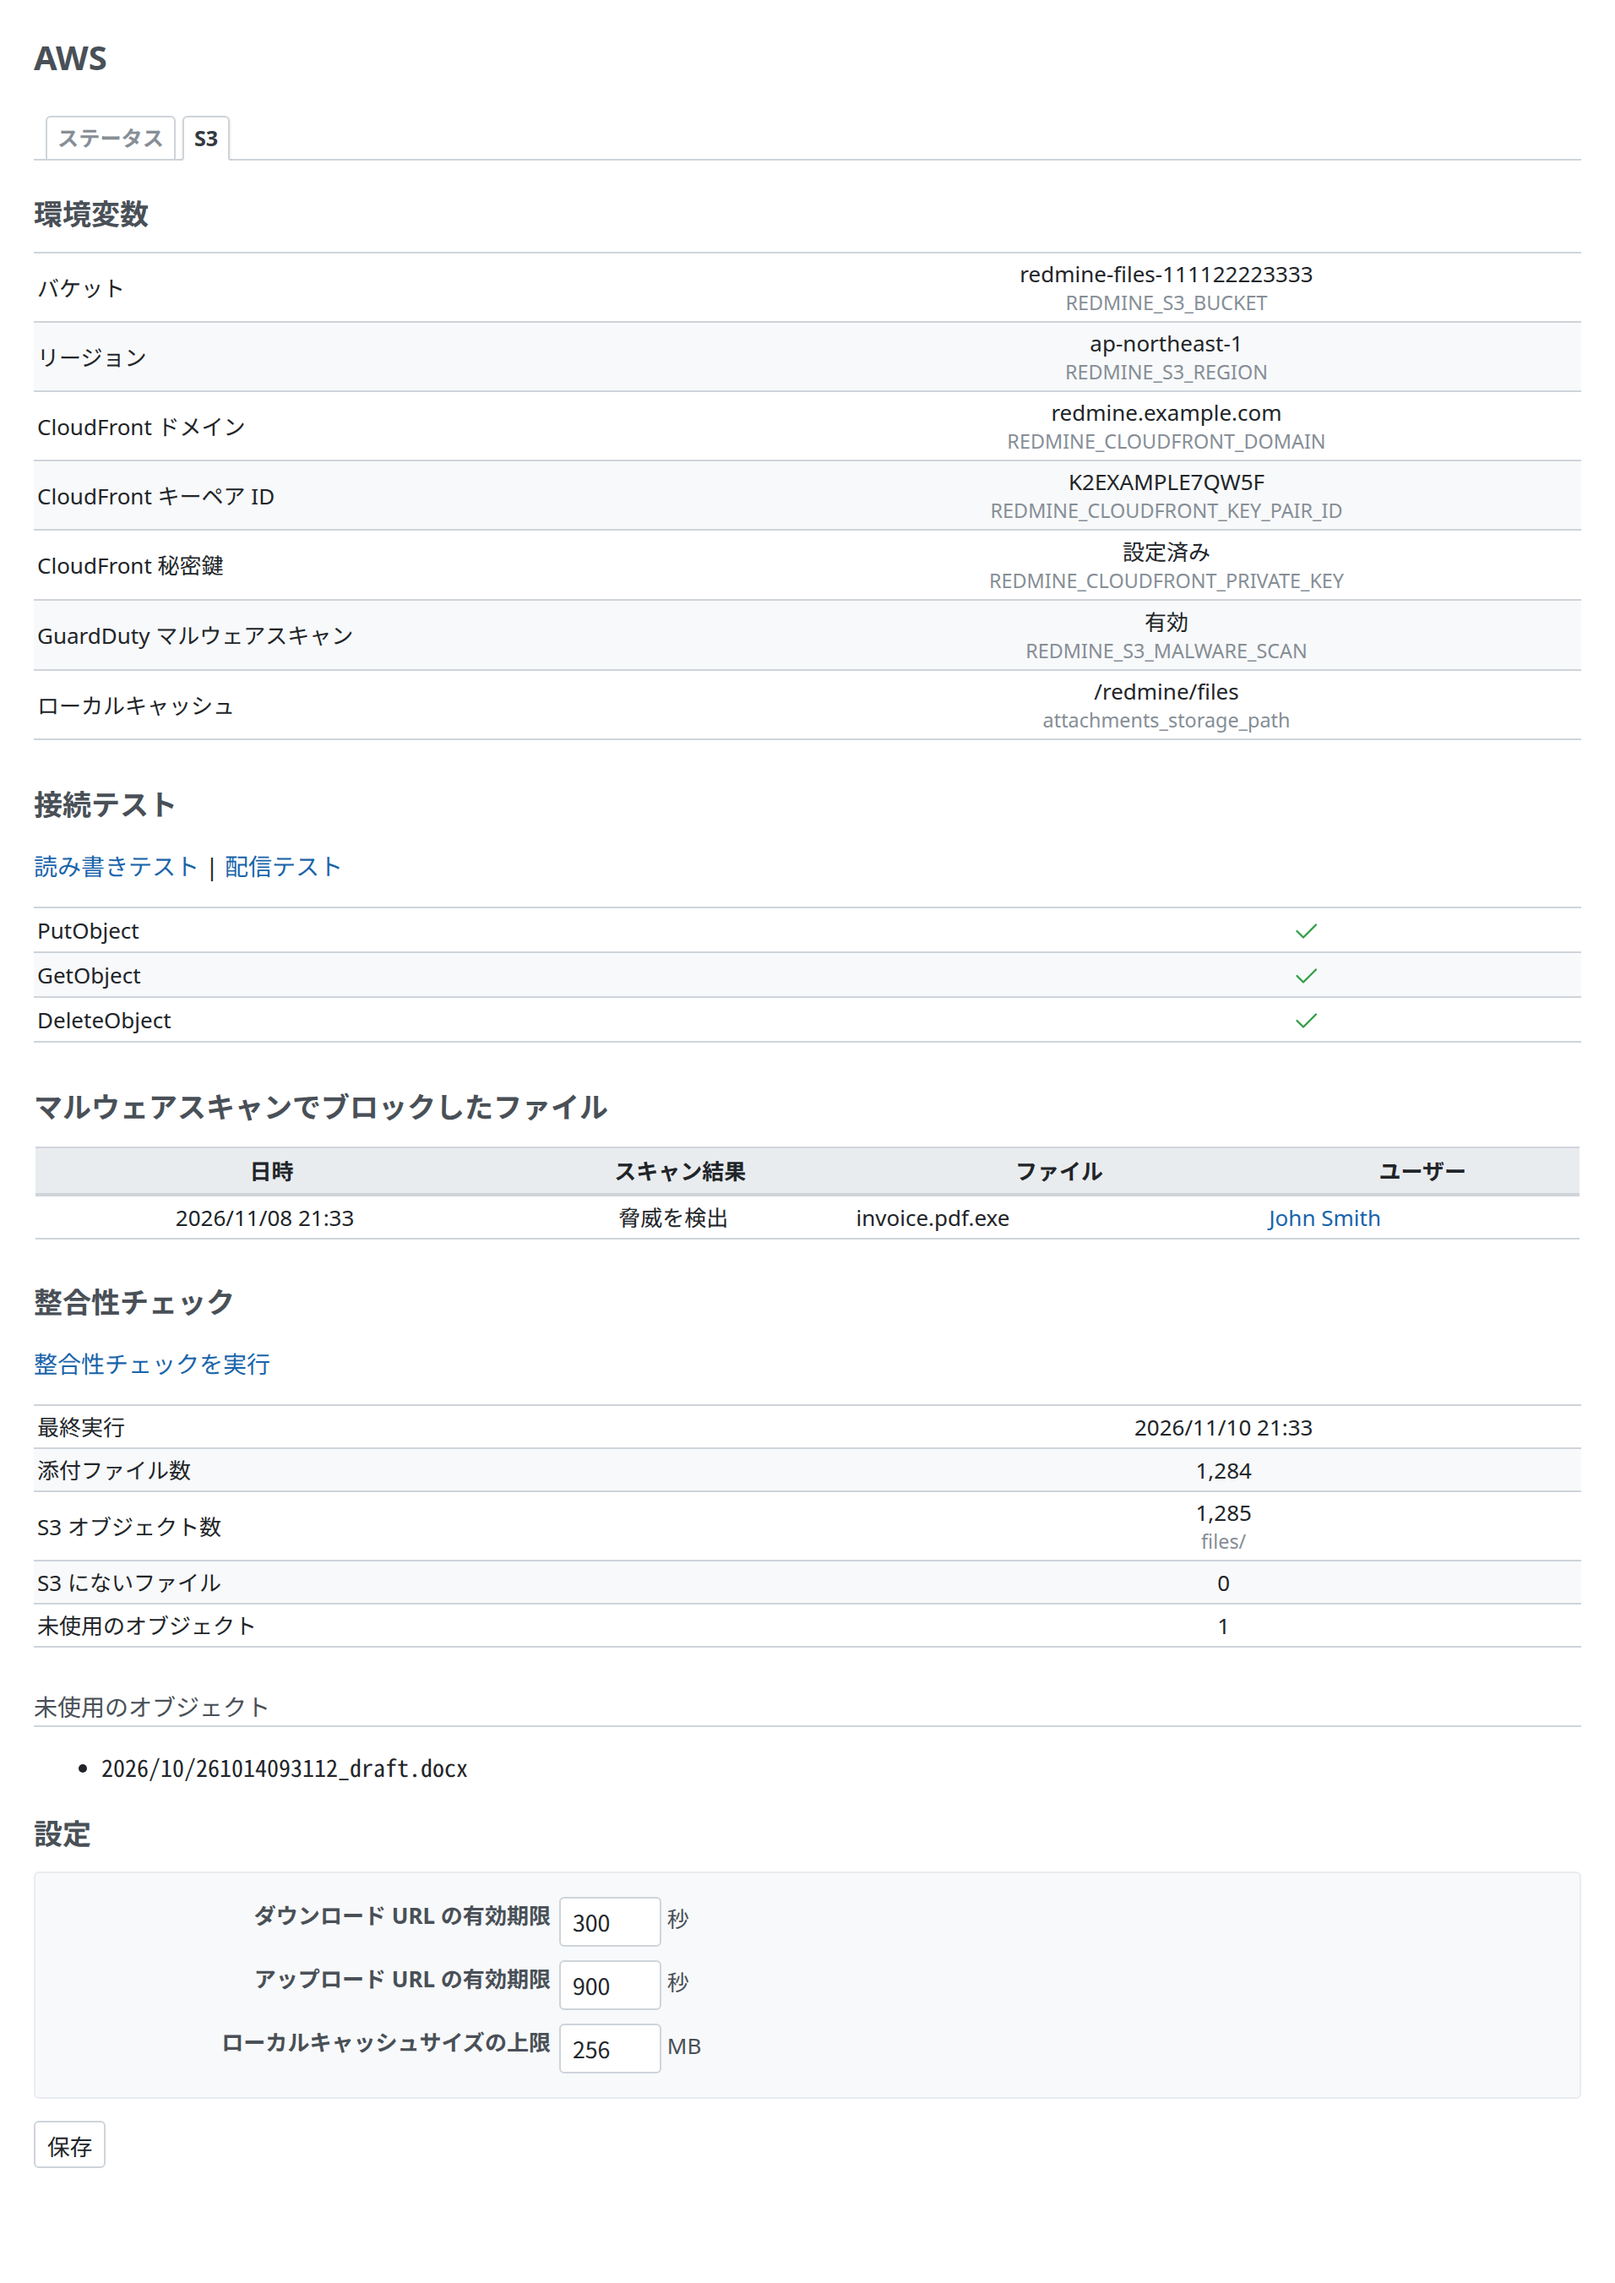
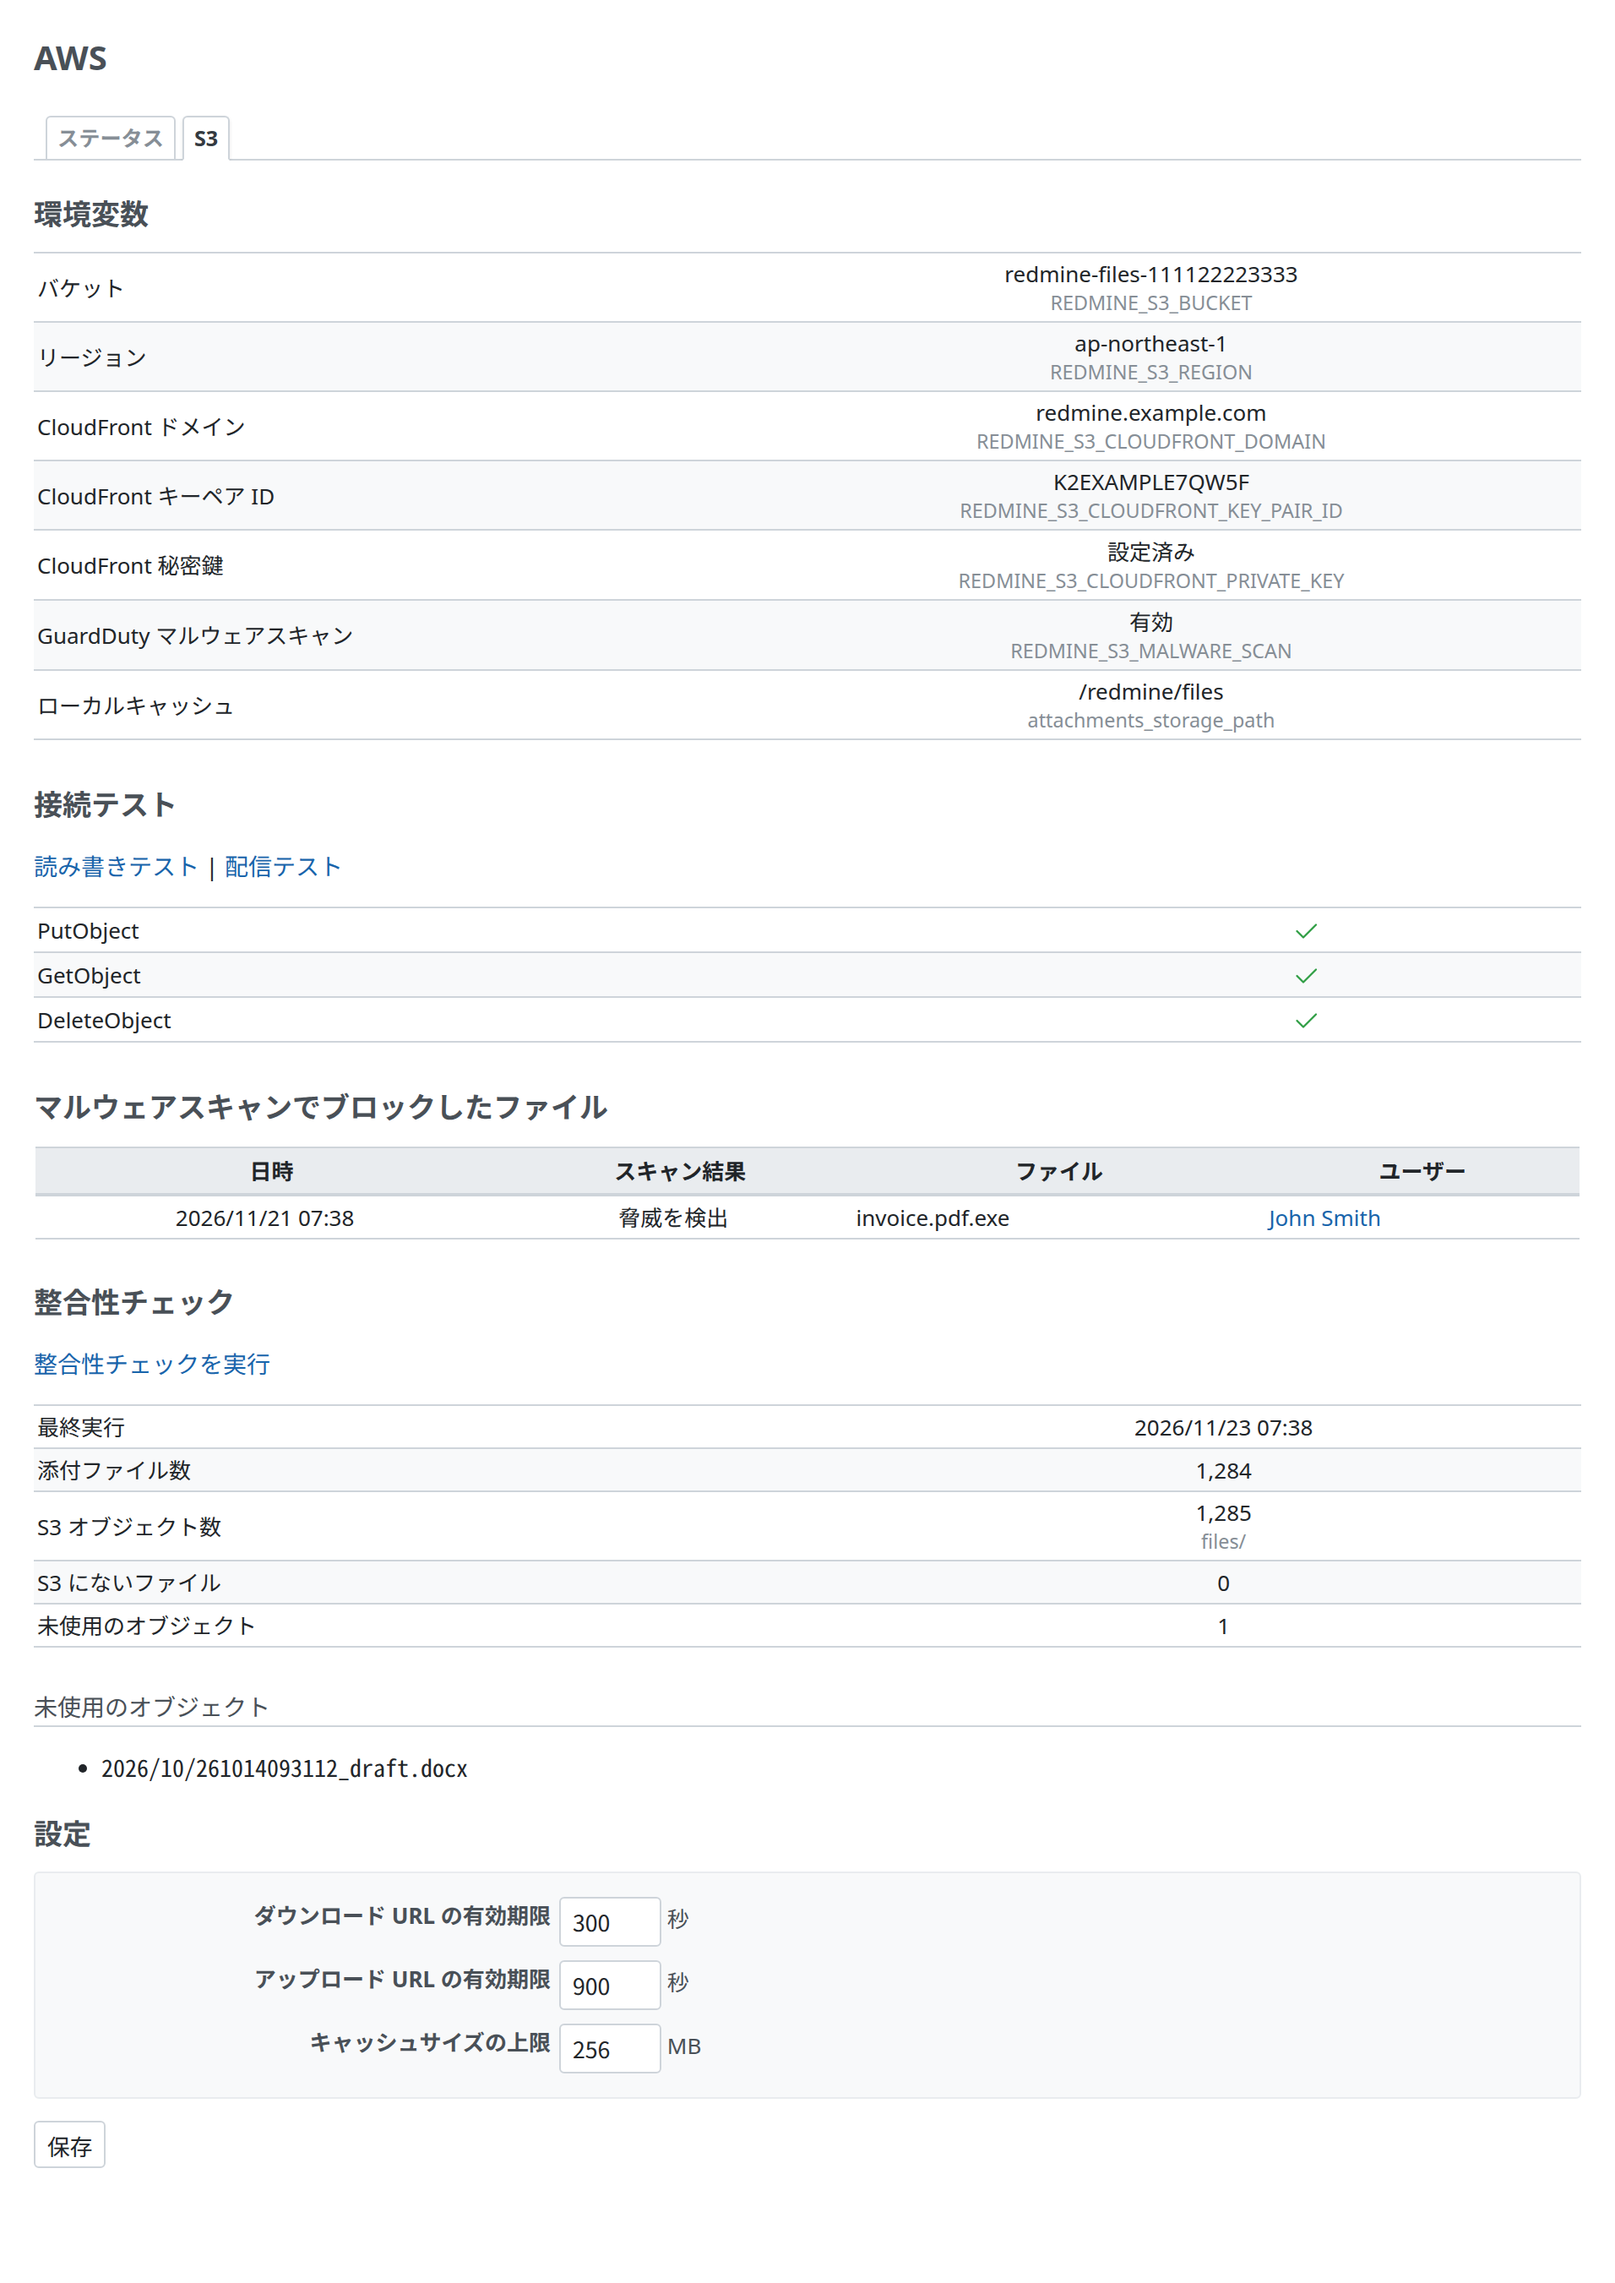
Name the cache size setting so that it fits the label column
The ja label of the local cache size limit, 「ローカルキャッシュサイズの
上限」, was cut at the new UI's 175px label column, the width of
Redmine's .tabular. It is now 「キャッシュサイズの上限」 and "Cache size
limit" in en: the variable's row "Local cache" right above says where
the cache is. Docs, help (en/ja), the functional test and the
screenshots follow.

Changed region(s): [[0.6172, 0.0933, 0.8023, 0.342]]

diff --git a/test/functional/aws_s3_admin_controller_test.rb b/test/functional/aws_s3_admin_controller_test.rb
@@ -97,7 +97,7 @@ module RedmineKit
 
           assert_response :unprocessable_content
           assert_select '#errorExplanation li', text: 'Download URL expiry must be less than or equal to 604800'
-          assert_select '#errorExplanation li', text: 'Local cache size limit must be less than or equal to 10240'
+          assert_select '#errorExplanation li', text: 'Cache size limit must be less than or equal to 10240'
           assert_default_expiries
         end
 

diff --git a/docs/admin.md b/docs/admin.md
@@ -14,7 +14,7 @@ This is the administration page of Redmine Kit AWS S3. Only Redmine administrato
 | Connection tests | "Read/write test" puts a test object (`tmp/healthcheck/<UUID>`), reads it and deletes it. "Delivery test" puts a test object, makes a signed URL for it under `/tmp/bulk/`, and requests it through CloudFront, with and without the signature. Each result is a row with the name, Redmine's OK or failed icon, and the details ([below](#connection-tests)) | Text links. The delivery test deletes its object afterwards |
 | Files blocked by malware scan | The last 20 files that the malware scan blocked, with the columns "Time", "Scan result", "File" and "User" (a link to the Redmine user). Shown when "GuardDuty malware scan" is "Enabled" or a blocked file is recorded | Kept in the plugin settings ([attachments.md](attachments.md#malware-scan)) |
 | Consistency check | "Run consistency check" starts the job `AwsS3ReconcileJob`, which lists `files/` and compares it with the attachments in the database. While it runs, the list shows "Status: Running" and "Started at". When the job fails (for example without `s3:ListBucket`), it shows "Status: Failed" with the class of the error in "Details", and the job logs the message; a run not finished an hour after it started (a timeout of the worker) shows "Timed out" there. When it is done, it shows "Last run", "Attachments", "S3 objects" (under `files/`), "Files missing in S3" and "Unused objects", then the lists under those two names (the first 100 of each) | A text link. The result is kept in the plugin settings, so every environment shows the latest one |
-| Settings | "Download URL expiry" and "Upload URL expiry" (seconds), "Local cache size limit" (MB) | Plugin settings, changed on the page. Positive whole numbers only, up to 604800 seconds (7 days) for the expiries and 10240 MB for the cache, with Redmine's message ("… must be less than or equal to …") above that; invalid input is not saved and stays in the form, under an error at the top of the tab that lists the labels of the wrong fields |
+| Settings | "Download URL expiry" and "Upload URL expiry" (seconds), "Cache size limit" (MB) | Plugin settings, changed on the page. Positive whole numbers only, up to 604800 seconds (7 days) for the expiries and 10240 MB for the cache, with Redmine's message ("… must be less than or equal to …") above that; invalid input is not saved and stays in the form, under an error at the top of the tab that lists the labels of the wrong fields |
 
 <a id="connection-tests"></a>
 

diff --git a/help/ja/aws-s3/attachments.md b/help/ja/aws-s3/attachments.md
@@ -18,6 +18,6 @@ Redmine Kit AWS S3 は、環境変数 `REDMINE_S3_BUCKET` を設定すると、R
 - 「接続テスト」: 「読み書きテスト」は、バケットにテスト用のオブジェクトを書き込み、読み込み、削除します。「配信テスト」は、テスト用のオブジェクトを署名付き URL で CloudFront から取得し、署名なしの URL が拒否されることを確認します。失敗した呼び出しは、エラーのクラスだけを表示します。
 - 「マルウェアスキャンでブロックしたファイル」: ブロックした最近の 20 個のファイルを、「日時」、「スキャン結果」、ファイル名、「ユーザー」とともに表示します。
 - 「整合性チェック」: 「整合性チェックを実行」で、データベースの添付ファイルとバケットのオブジェクトをバックグラウンドのジョブで比べ、「添付ファイル数」、「S3 オブジェクト数」、「S3 にないファイル」、「未使用のオブジェクト」を表示します。
-- 「設定」: 「ダウンロード URL の有効期限」と「アップロード URL の有効期限」(秒)、「ローカルキャッシュサイズの上限」(MB) です。正の整数で入力し、「保存」で保存します。
+- 「設定」: 「ダウンロード URL の有効期限」と「アップロード URL の有効期限」(秒)、「キャッシュサイズの上限」(MB) です。正の整数で入力し、「保存」で保存します。
 
 バケットを設定していないときは、警告と、環境変数と設定だけを表示します。「管理」›「プラグイン」で Redmine Kit AWS S3 の「設定」を開くと、このタブを開きます。

diff --git a/help/en/aws-s3/attachments.md b/help/en/aws-s3/attachments.md
@@ -18,6 +18,6 @@ The attach files form works as in Redmine, with its progress bar. When the Guard
 - **Connection tests**: **Read/write test** puts, reads and deletes a test object in the bucket; **Delivery test** fetches a test object through CloudFront with a signed URL and checks that the unsigned URL is denied. A failed call shows only the class of the error.
 - **Files blocked by malware scan**: the last 20 blocked files, with **Time**, **Scan result**, the file name and the **User**.
 - **Consistency check**: **Run consistency check** compares the attachments in the database with the objects in the bucket, in a background job, and shows **Attachments**, **S3 objects**, **Files missing in S3** and **Unused objects**.
-- **Settings**: **Download URL expiry** and **Upload URL expiry** (seconds) and **Local cache size limit** (MB), positive whole numbers. **Save** saves them.
+- **Settings**: **Download URL expiry** and **Upload URL expiry** (seconds) and **Cache size limit** (MB), positive whole numbers. **Save** saves them.
 
 Without the bucket, the tab shows a warning, the environment variables and the settings only. **Configure** of Redmine Kit AWS S3 in **Administration** › **Plugins** opens this tab.

diff --git a/docs/setup.md b/docs/setup.md
@@ -83,7 +83,7 @@ Nothing of the plugin has to load before Rails starts, so it needs no line in `G
 | Item | Description | Where to change |
 | --- | --- | --- |
 | Download URL expiry, Upload URL expiry | Default: 300 seconds for downloads and thumbnails, 900 seconds for uploads ([attachments.md](attachments.md#upload)) | Plugin settings ([administration page](admin.md#attachments-in-s3)) |
-| Local cache size limit | Default: 256 MB ([attachments.md](attachments.md#the-tmp-cache)) | Plugin settings (administration page) |
+| Cache size limit | Default: 256 MB ([attachments.md](attachments.md#the-tmp-cache)) | Plugin settings (administration page) |
 | `attachments_storage_path` | The local cache directory. On Lambda, under `/tmp` (for example `/tmp/redmine/files`) | `config/configuration.yml` |
 | Maximum attachment size | Can still be changed; the CloudFront Function on `/tmp/*` must use the same limit for uploads ([admin.md](admin.md#maximum-attachment-size)) | Redmine's settings |
 
